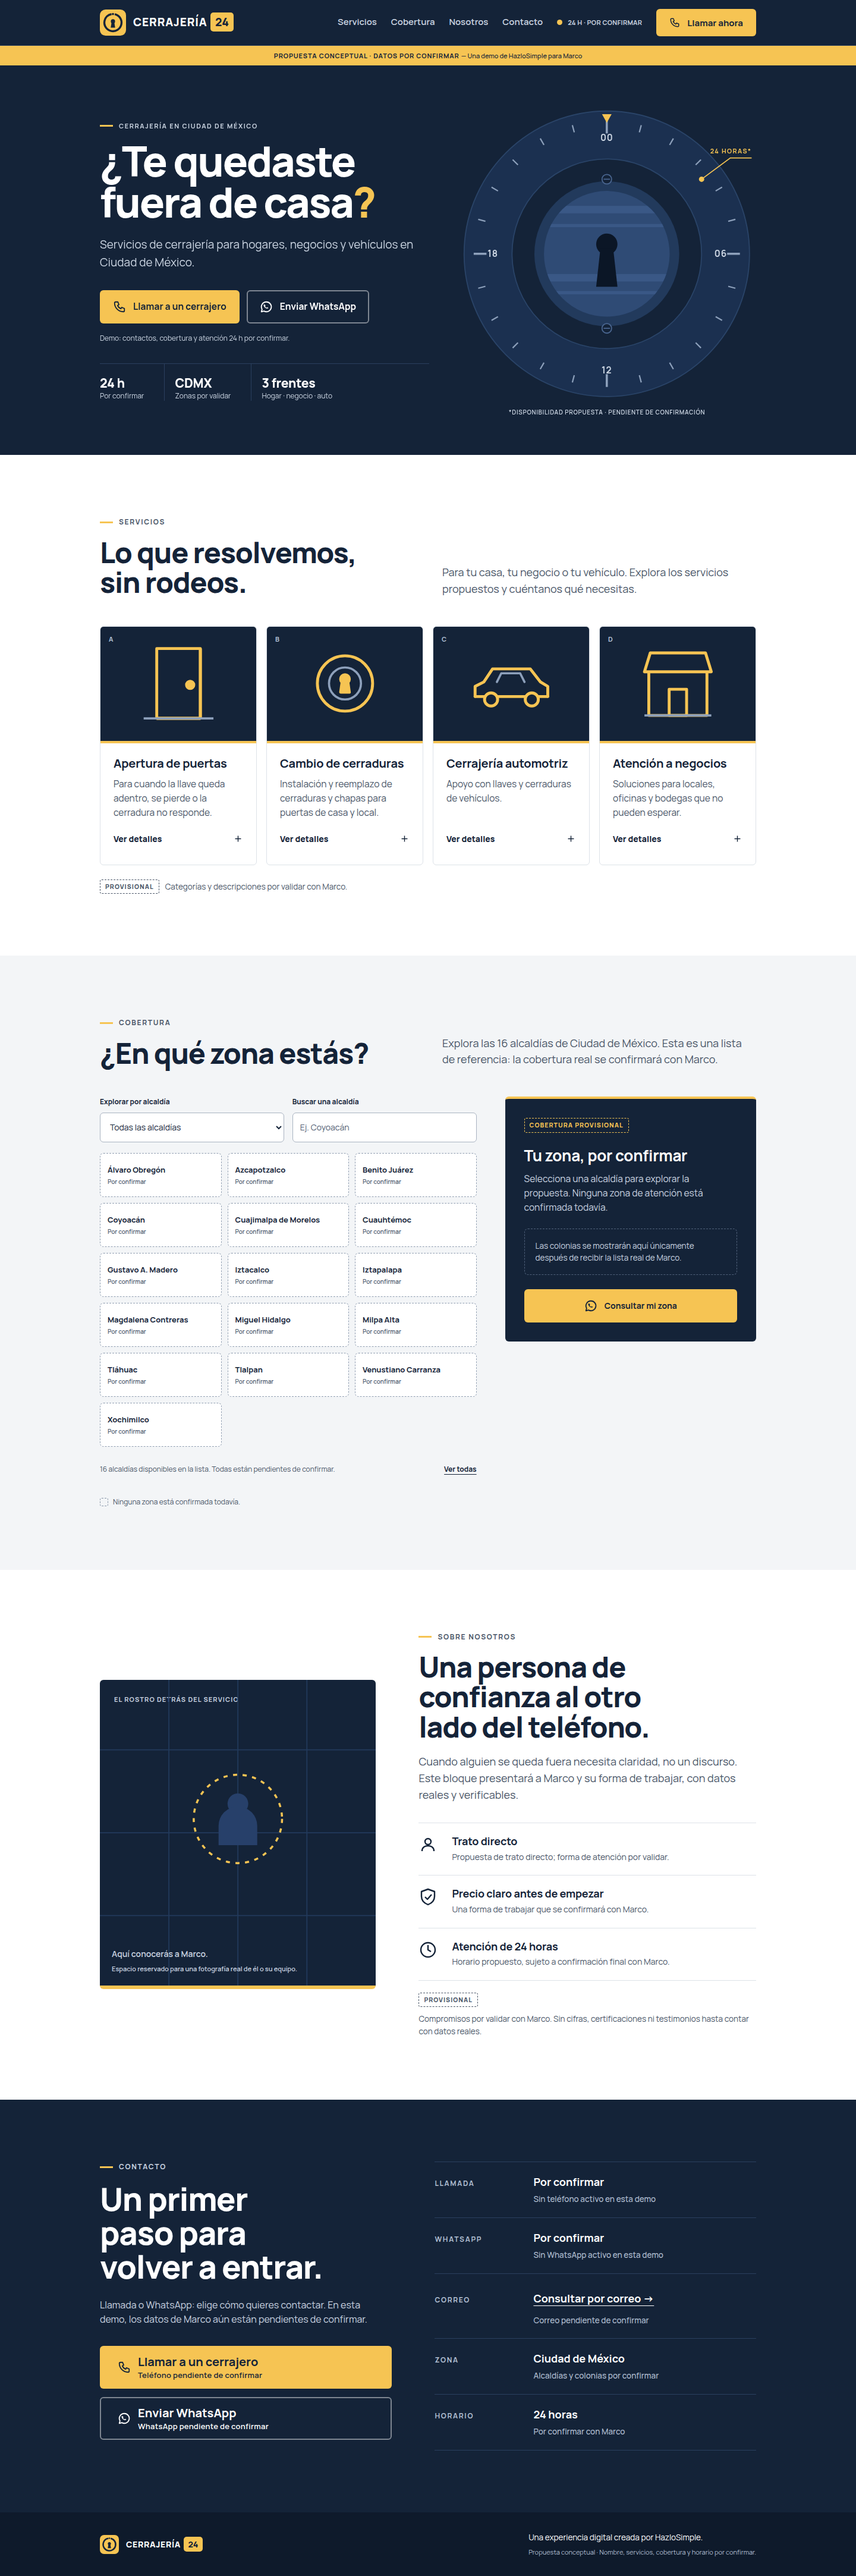
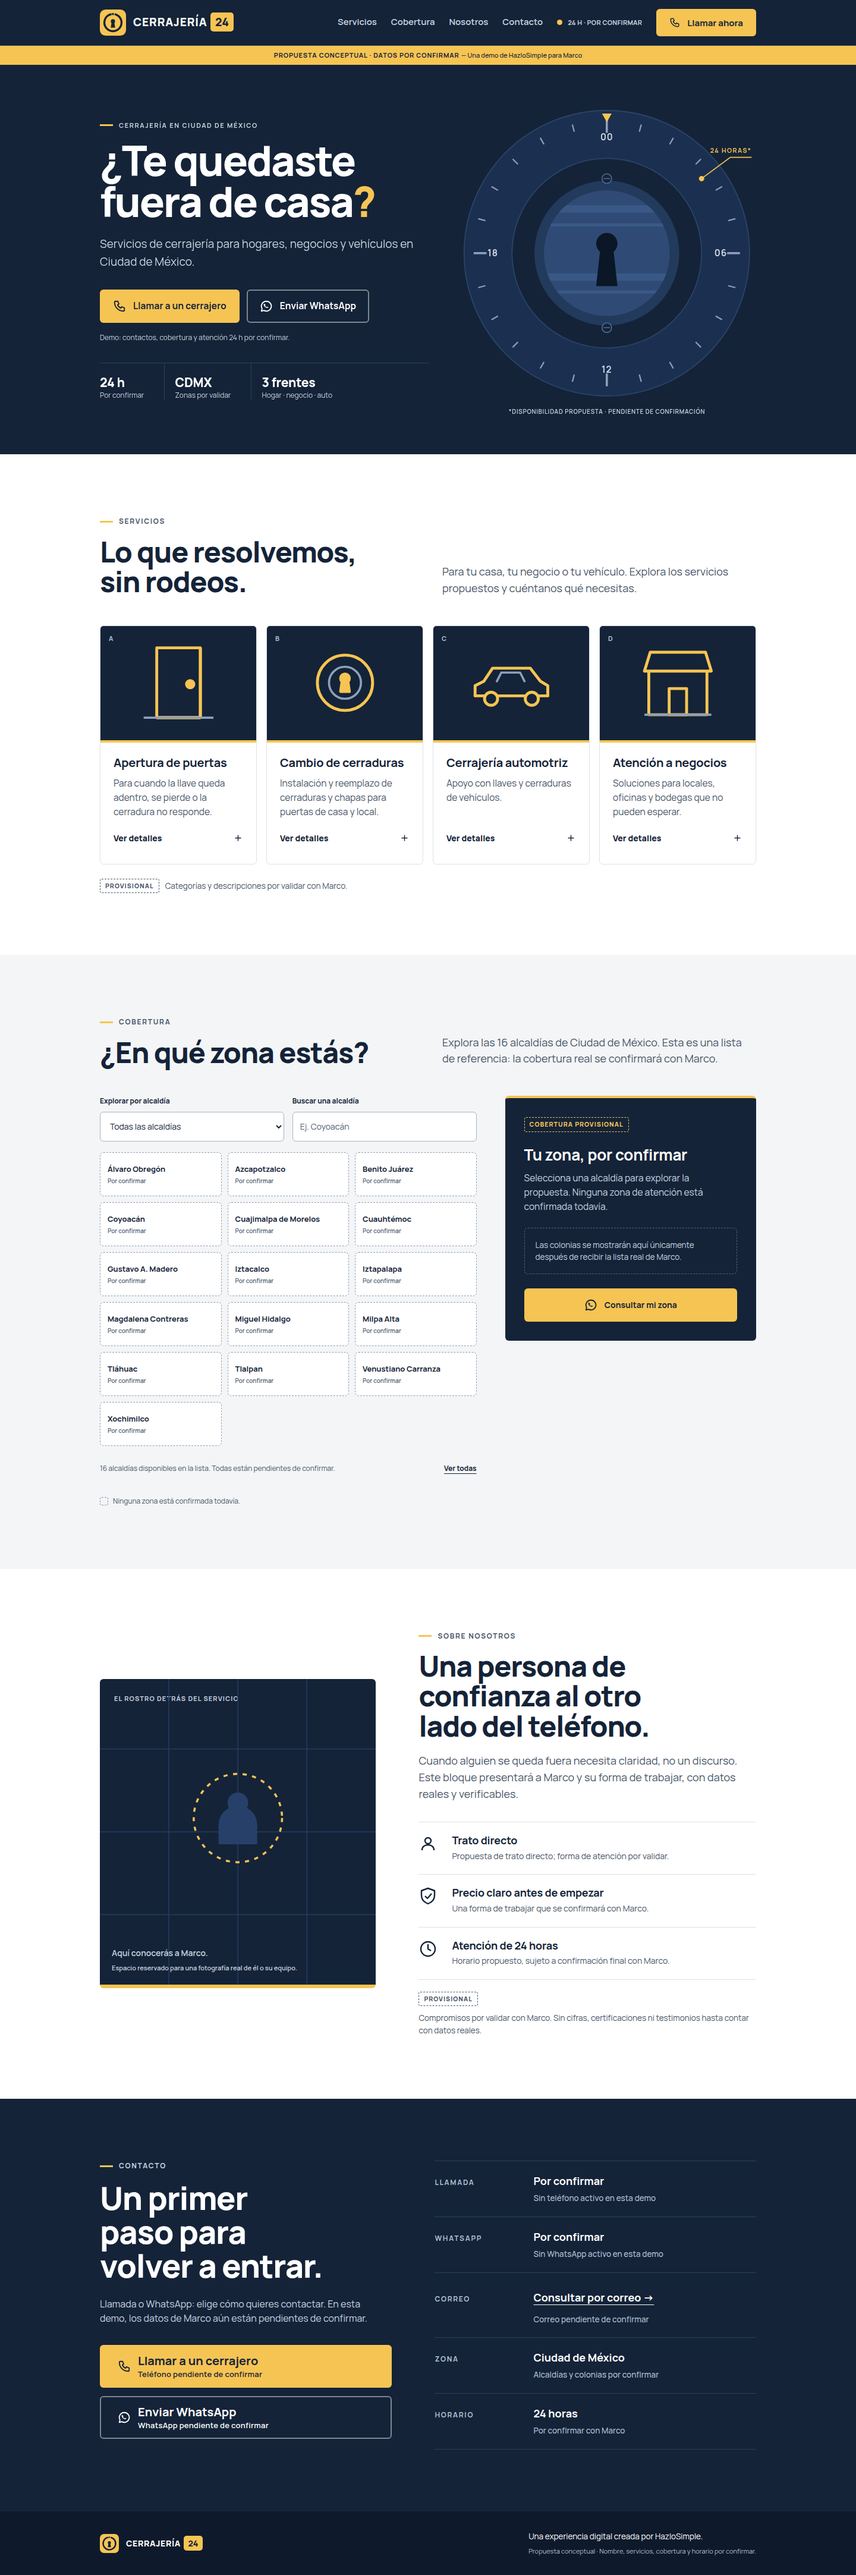
Guardar evidencia responsive y pruebas de aceptación

diff --git a/scripts/browser-check.js b/scripts/browser-check.js
@@ -25,8 +25,9 @@
       const toggle = get('#menu-toggle');
       if (width <= 1040) {
         assert(win.getComputedStyle(toggle).display !== 'none', width + ': botón menú visible');
+        assert(toggle.getAttribute('aria-label') === 'Abrir menú', width + ': etiqueta menú accesible');
         toggle.click();
-        assert(!get('#mobile-nav').hidden && toggle.getAttribute('aria-expanded') === 'true', width + ': menú abre');
+        assert(!get('#mobile-nav').hidden && toggle.getAttribute('aria-expanded') === 'true' && toggle.getAttribute('aria-label') === 'Cerrar menú', width + ': menú abre');
         get('#mobile-nav a').click();
         assert(get('#mobile-nav').hidden && toggle.getAttribute('aria-expanded') === 'false', width + ': ancla cierra menú');
         toggle.click();

diff --git a/TODO.md b/TODO.md
@@ -1,6 +1,6 @@
 # TODO — Cerrajería 24 Demo HazloSimple
 
-## 1. Identidad, contenido y fidelidad al mockup — En curso
+## 1. Identidad, contenido y fidelidad al mockup — Completo
 - Trabajar directamente sobre el HTML y assets proporcionados, conservar el concepto **Industrial Premium** y no rediseñar desde cero ni sustituir la identidad.
 - Mantener azul noche `#142338`, amarillo seguridad `#F6C453`, blanco `#FFFFFF`, gris claro `#F3F5F7`, Manrope, logotipo conceptual de cerradura y disponibilidad 24 horas.
 - Utilizar provisionalmente el nombre **CERRAJERÍA 24**, el texto principal **«¿Te quedaste fuera de casa?»** y el texto secundario **«Servicios de cerrajería para hogares, negocios y vehículos en Ciudad de México.»**
@@ -9,23 +9,23 @@
 - En el footer incluir **«Una experiencia digital creada por HazloSimple.»**
 - Incluir metadatos básicos, favicon y `noindex, nofollow` mientras el sitio sea una demostración.
 
-## 2. Navegación, hero y servicios interactivos — Abierto
+## 2. Navegación, hero y servicios interactivos — Completo
 - Implementar header fijo con transición sutil al desplazarse, navegación mediante anclas, menú móvil funcional y scroll suave entre secciones.
 - Implementar en el hero animaciones de entrada suaves, gráfico circular de 24 horas con movimiento sutil mediante CSS o SVG, botones de llamada y WhatsApp y microinteracciones al pasar el cursor.
 - Implementar tarjetas de servicios interactivas con animaciones hover, descripciones expandibles y CTA de contacto contextual.
 - Incluir estados hover, focus y active y transiciones naturales.
 
-## 3. Cobertura y sección «Sobre nosotros» — Abierto
+## 3. Cobertura y sección «Sobre nosotros» — Completo
 - Implementar una sección interactiva para explorar las alcaldías de CDMX mediante filtro o selector.
 - Mostrar todas las zonas como provisionales hasta que Marco confirme su cobertura real; no afirmar que se atienden zonas no verificadas.
 - Preparar un espacio para fotografía real del propietario o su equipo y presentar visualmente beneficios con animaciones discretas al desplazarse.
 
-## 4. Contacto de demostración y protección contra datos falsos — Abierto
+## 4. Contacto de demostración y protección contra datos falsos — Completo
 - Implementar botones de llamada mediante `tel:`, WhatsApp mediante `wa.me` y correo mediante `mailto:` cuando Marco proporcione los datos confirmados.
 - Mientras no existan datos confirmados, los botones deben mostrar un aviso de demostración y no abrir números de teléfono, direcciones de correo ni enlaces de contacto inventados.
 - Incluir barra inferior fija de contacto en móviles.
 
-## 5. Experiencia responsive, accesible y rápida — Abierto
+## 5. Experiencia responsive, accesible y rápida — Completo
 - Priorizar especialmente la versión móvil.
 - Permitir que el visitante comprenda inmediatamente qué servicio ofrece la empresa, que la atención es de 24 horas sujeto a confirmación final, dónde opera y cómo llamar o enviar un WhatsApp.
 - Respetar `prefers-reduced-motion`, contraste accesible, navegación por teclado y tamaños táctiles adecuados.
@@ -34,13 +34,13 @@
 - No añadir backend, base de datos, chatbot, pasarela de pago ni sistema de reservaciones.
 - Mantener la implementación definitiva como landing page sencilla dentro del paquete cotizado de **$3,500 MXN**. CRM, automatizaciones, pagos, cuentas de usuario, reservas e integraciones externas quedan fuera del alcance y se cotizarían por separado.
 
-## 6. Proyecto independiente y despliegue Vercel — Abierto
+## 6. Proyecto independiente y despliegue Vercel — En curso: repositorios independientes creados; Vercel pendiente de autenticación
 - Crear un proyecto completamente independiente, con repositorio nuevo e independiente; no modificar repositorios ni configuraciones de HazloSimple, SidePath ni otros proyectos existentes.
 - Ejecutar instalación de dependencias y build y verificar que no existan errores.
 - Desplegar en Vercel y entregar URL HTTPS pública funcionando.
 - No conectar dominios personalizados ni añadir servicios de pago.
 
-## 7. Pruebas y entrega de evidencia — Abierto
+## 7. Pruebas y entrega de evidencia — En curso: 121/121 locales; URL Vercel pendiente
 - Antes de dar el proyecto por terminado, verificar escritorio a 1440 px, tablet a 768 px y móvil a 390 px y 375 px.
 - Verificar funcionamiento del menú y la navegación, interactividad de tarjetas, filtro de cobertura, barra inferior móvil, ausencia de desbordamiento horizontal, accesibilidad básica, ausencia de errores en consola y que ningún CTA abra un número o correo de ejemplo.
 - Comprobar la URL desplegada, no únicamente la versión local.

diff --git a/evidence/pendientes-marco.md b/evidence/pendientes-marco.md
@@ -1,0 +1,20 @@
+# Datos pendientes de confirmar con Marco
+
+| Dato | Confirmación necesaria |
+|---|---|
+| Nombre comercial | Confirmar si «CERRAJERÍA 24» será el nombre definitivo y si se conserva el logotipo conceptual. |
+| Teléfono | Número real autorizado para llamadas, con prefijo internacional. |
+| WhatsApp | Número real autorizado para WhatsApp; confirmar si coincide con el teléfono. |
+| Correo | Dirección real que atenderá consultas. No existe ninguna dirección ficticia activa en la demo. |
+| Horario | Confirmar si realmente presta servicio las 24 horas y todos los días, o indicar horarios y excepciones. |
+| Cobertura | Lista real de alcaldías y colonias atendidas, zonas no atendidas y condiciones de desplazamiento. Las 16 alcaldías actuales son referencias, no cobertura prometida. |
+| Servicios | Confirmar aperturas, cambio de cerraduras, atención a negocios y cerrajería automotriz, junto con sus alcances y exclusiones. |
+| Vehículos y cerraduras | Marcas, modelos y tipos de trabajo que efectivamente atiende; no se prometen compatibilidades sin verificación. |
+| Presentación del negocio | Texto real sobre Marco y su forma de trabajar, sin inventar antigüedad, cifras, certificaciones, garantías ni tiempos de llegada. |
+| Fotografía | Foto real y autorizada de Marco o del equipo para sustituir el espacio reservado. |
+| Beneficios y condiciones | Confirmar trato directo, forma de cotizar, atención y cualquier compromiso comercial antes de publicarlo como hecho. |
+| Publicación comercial | Autorizar contenido definitivo y retiro de la etiqueta de demo y de noindex/nofollow; dominio comercial se trata por separado y no se conectó ninguno. |
+
+## Alcance comercial
+
+La implementación permanece como landing page sencilla dentro del paquete cotizado de **$3,500 MXN**. No se agregaron CRM, automatizaciones, pagos, cuentas, reservas, chatbots ni integraciones externas. Esas funcionalidades, si se solicitan después, requieren una cotización independiente.

diff --git a/evidence/tests.md b/evidence/tests.md
@@ -1,8 +1,12 @@
 # Evidencia de pruebas — Cerrajería 24
 
+## Estado de despliegue
+
+Las verificaciones descritas corresponden al sitio servido para desarrollo. El despliegue en Vercel y la comprobación de su URL HTTPS pública siguen pendientes de autenticación; no se declara terminado ese entregable.
+
 ## Resultado
 
-**118/118 verificaciones interactivas aprobadas** en el navegador para 1440 × 1000, 768 × 1024, 390 × 844 y 375 × 812 px.
+**121/121 verificaciones interactivas aprobadas** en el navegador para 1440 × 1000, 768 × 1024, 390 × 844 y 375 × 812 px.
 
 En cada tamaño se verificaron el ancho de contenido sin desbordamiento horizontal, el header, 24 marcas SVG, metadatos noindex/nofollow, ausencia de destinos `tel:`, `mailto:` o `wa.me` ficticios, funcionamiento de los cuatro acordeones y el filtro de cobertura. Se probaron búsqueda de alcaldías sin acentos, estado sin resultados, reinicio a las 16 alcaldías y selección que mantiene la cobertura explícitamente pendiente de confirmar. También se abrió y cerró el diálogo de demostración desde todos los CTAs y se comprobó el contexto por alcaldía. En 768, 390 y 375 px se probaron apertura/cierre del menú móvil, navegación por ancla, Escape, barra inferior fija y objetivos táctiles de al menos 44 px. No se detectaron errores JavaScript durante la secuencia de interacción.
 
